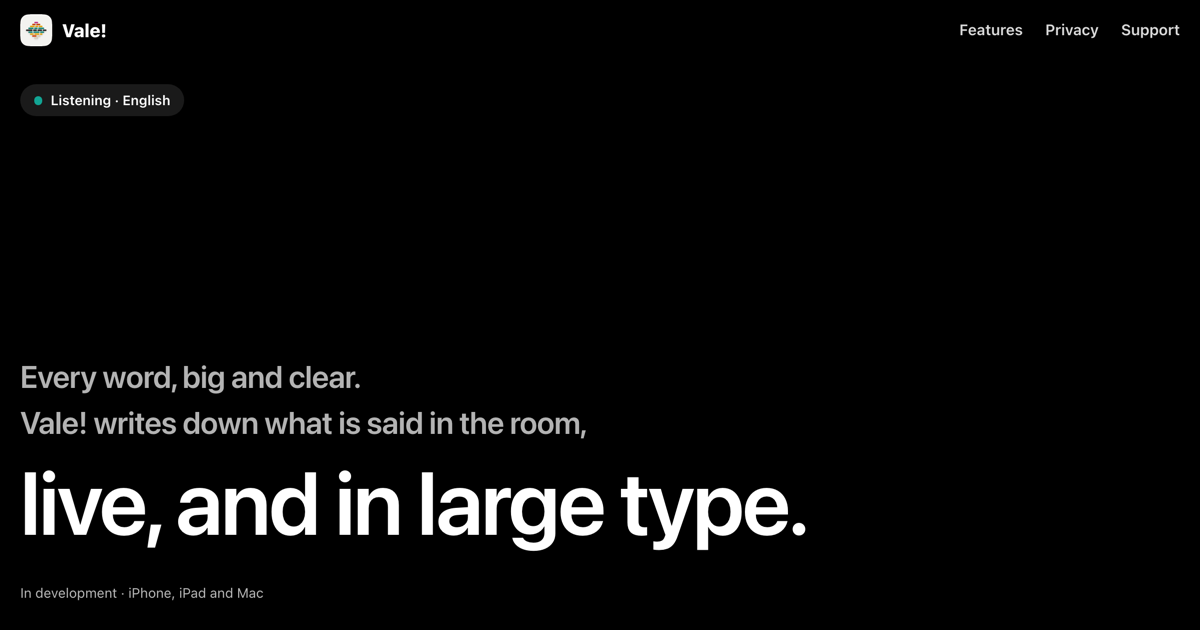
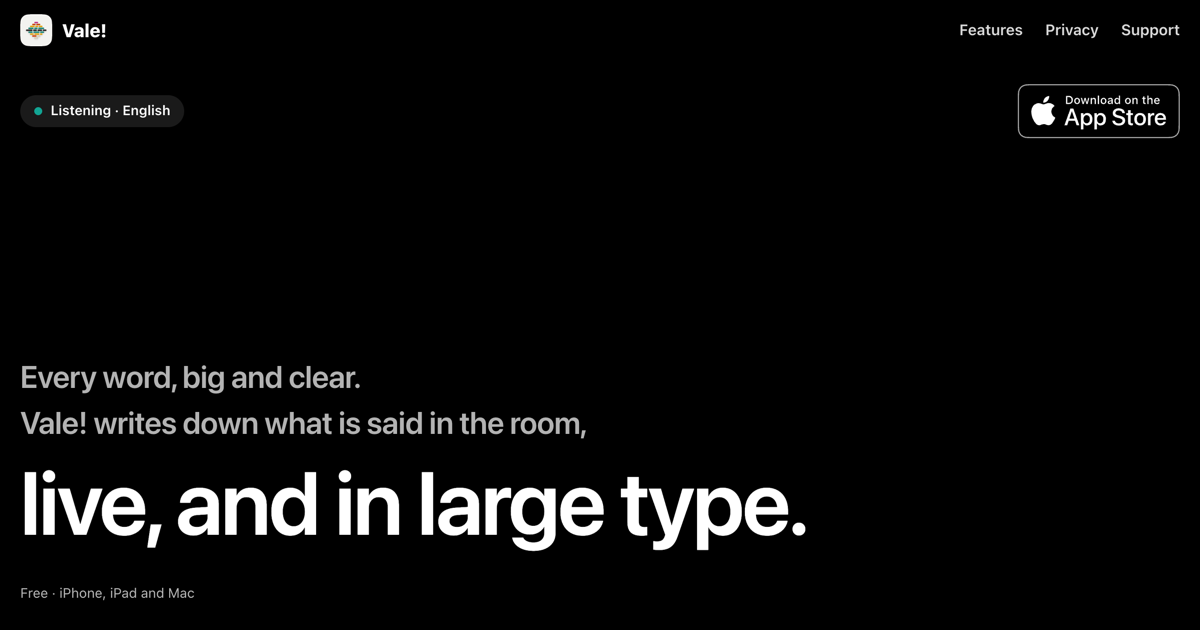
[#] render the link preview again with the App Store badge

diff --git a/index.html b/index.html
@@ -12,7 +12,7 @@
 <meta property="og:image" content="https://vale-live-transcripts.github.io/vale-webpage/images/link-preview.png">
 <meta property="og:image:width" content="1200">
 <meta property="og:image:height" content="630">
-<meta property="og:image:alt" content="Vale! in large white type on black: Every word, big and clear. Vale! writes down what is said in the room, live, and in large type.">
+<meta property="og:image:alt" content="Vale! in large white type on black: Every word, big and clear. Vale! writes down what is said in the room, live, and in large type. Above them, the Download on the App Store badge.">
 <meta name="twitter:card" content="summary_large_image">
 <link rel="icon" type="image/png" href="favicon.png">
 <link rel="apple-touch-icon" href="apple-touch-icon.png">
